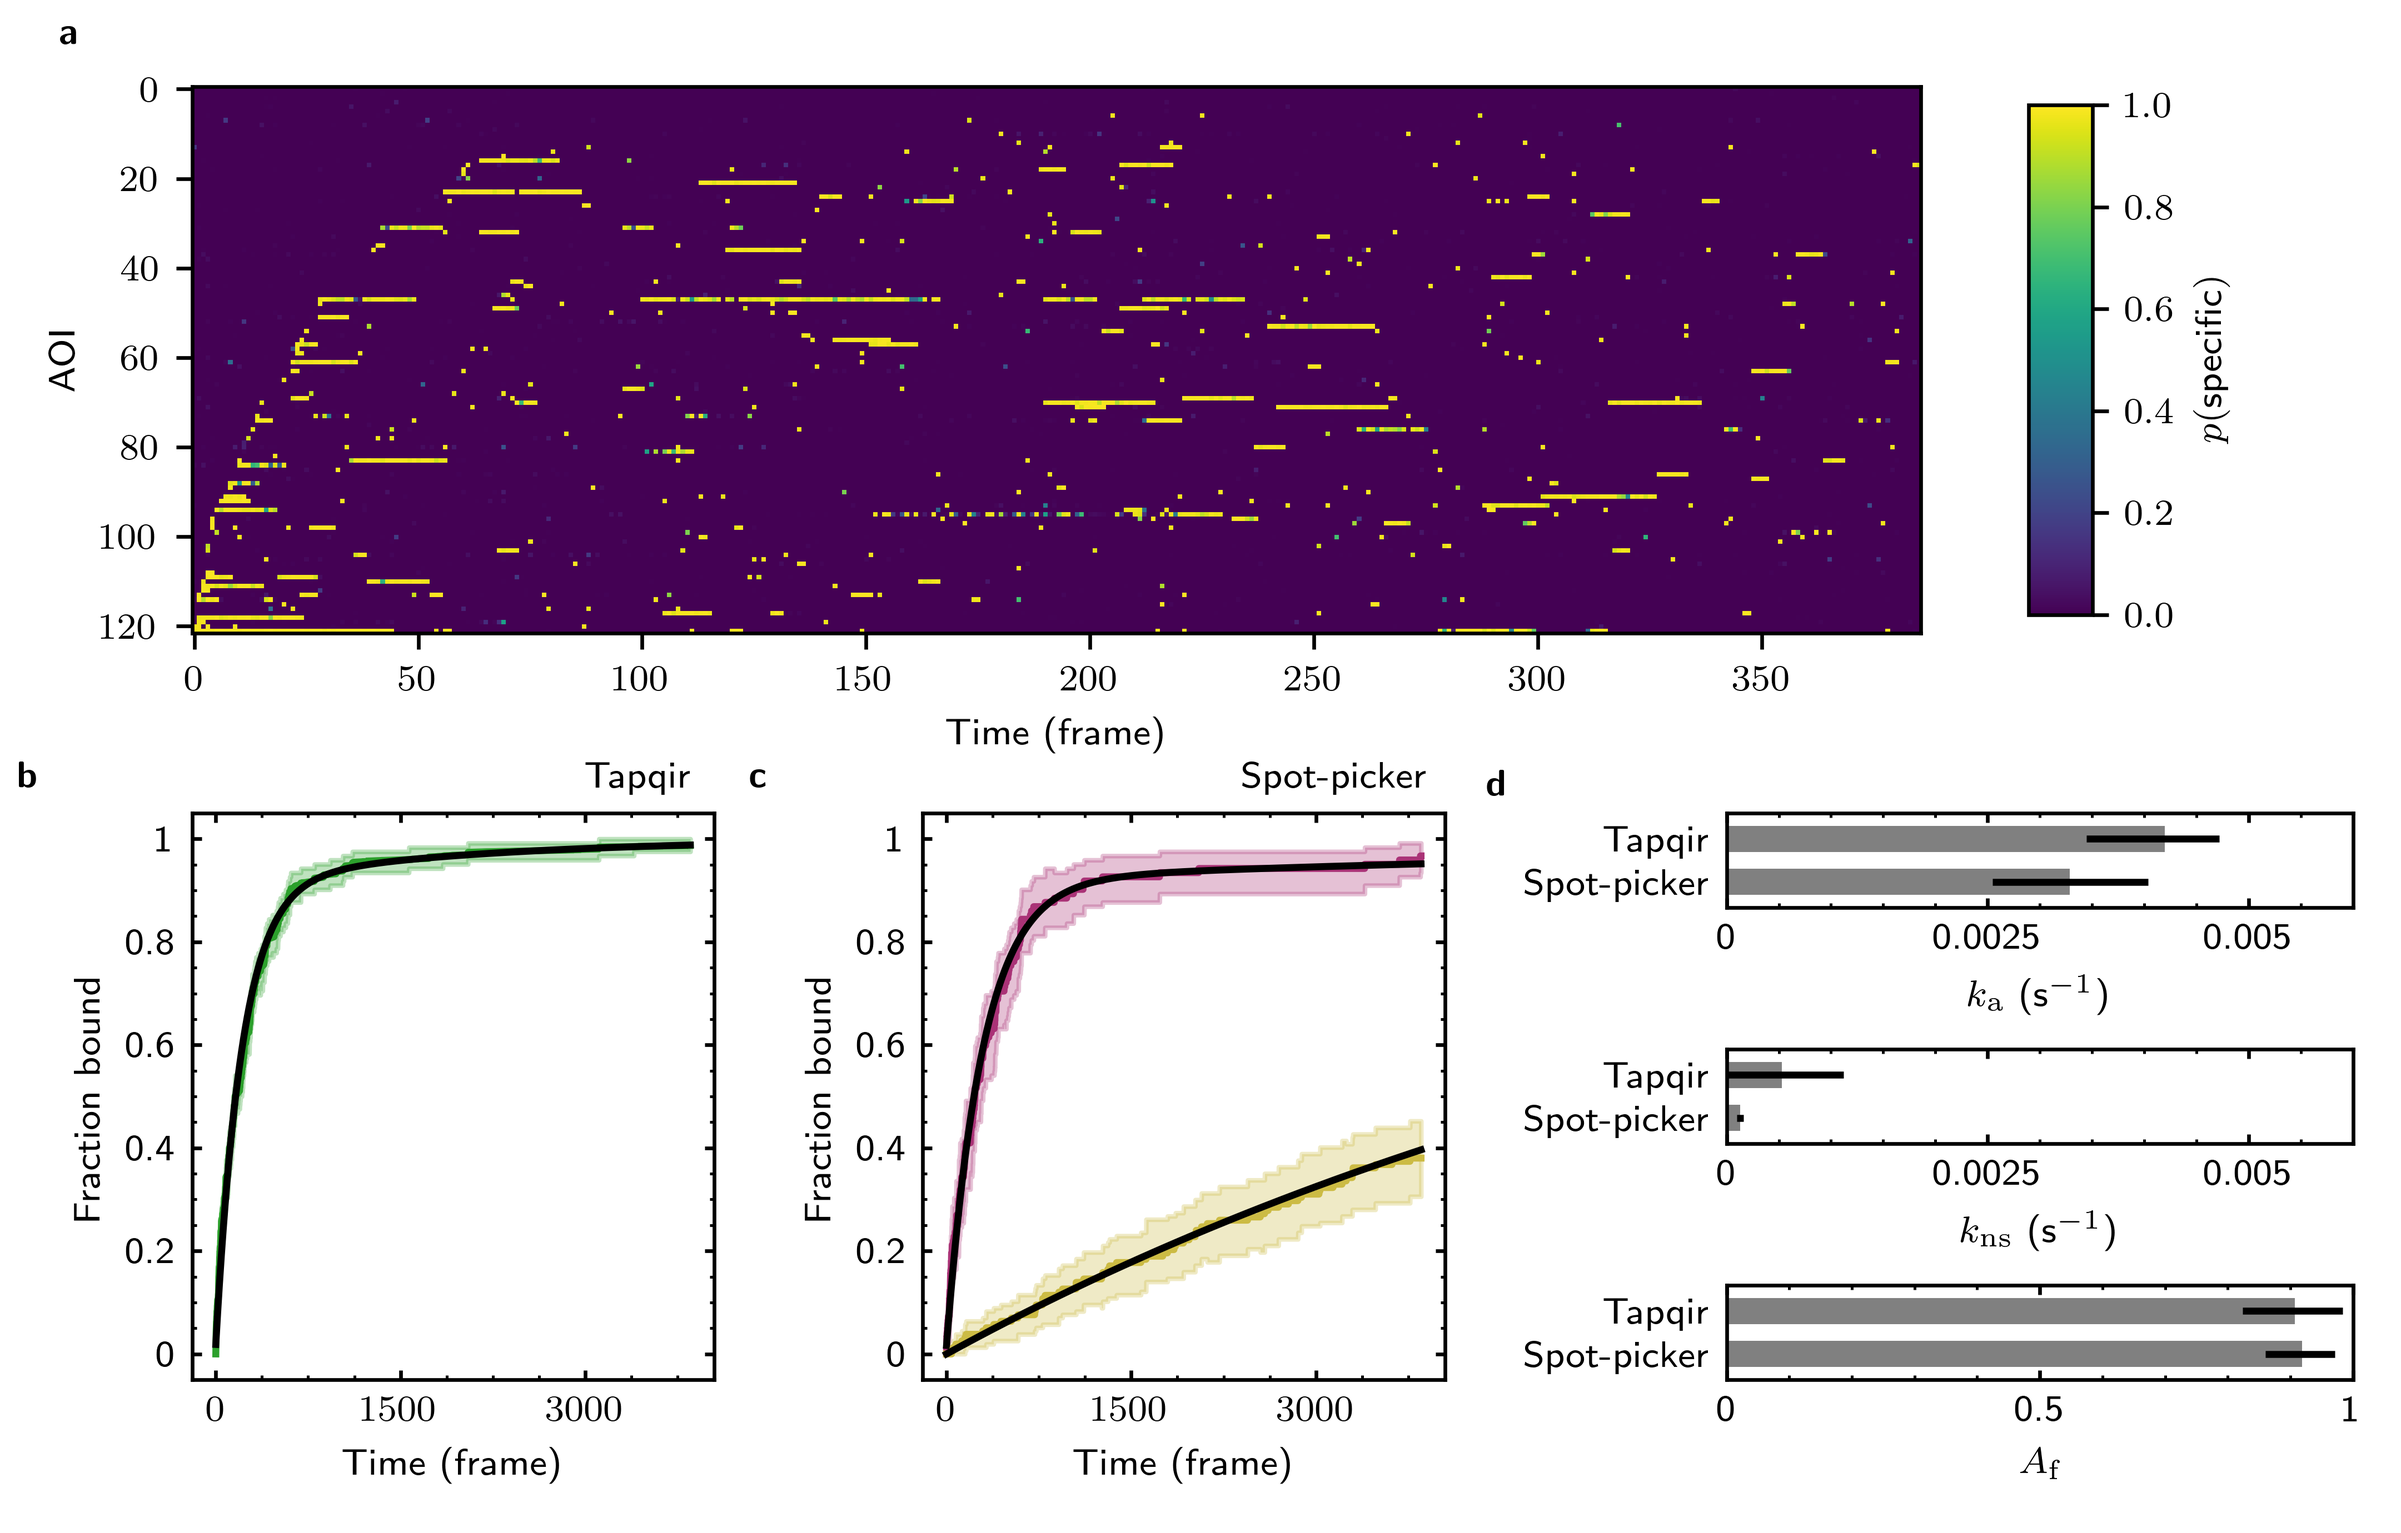
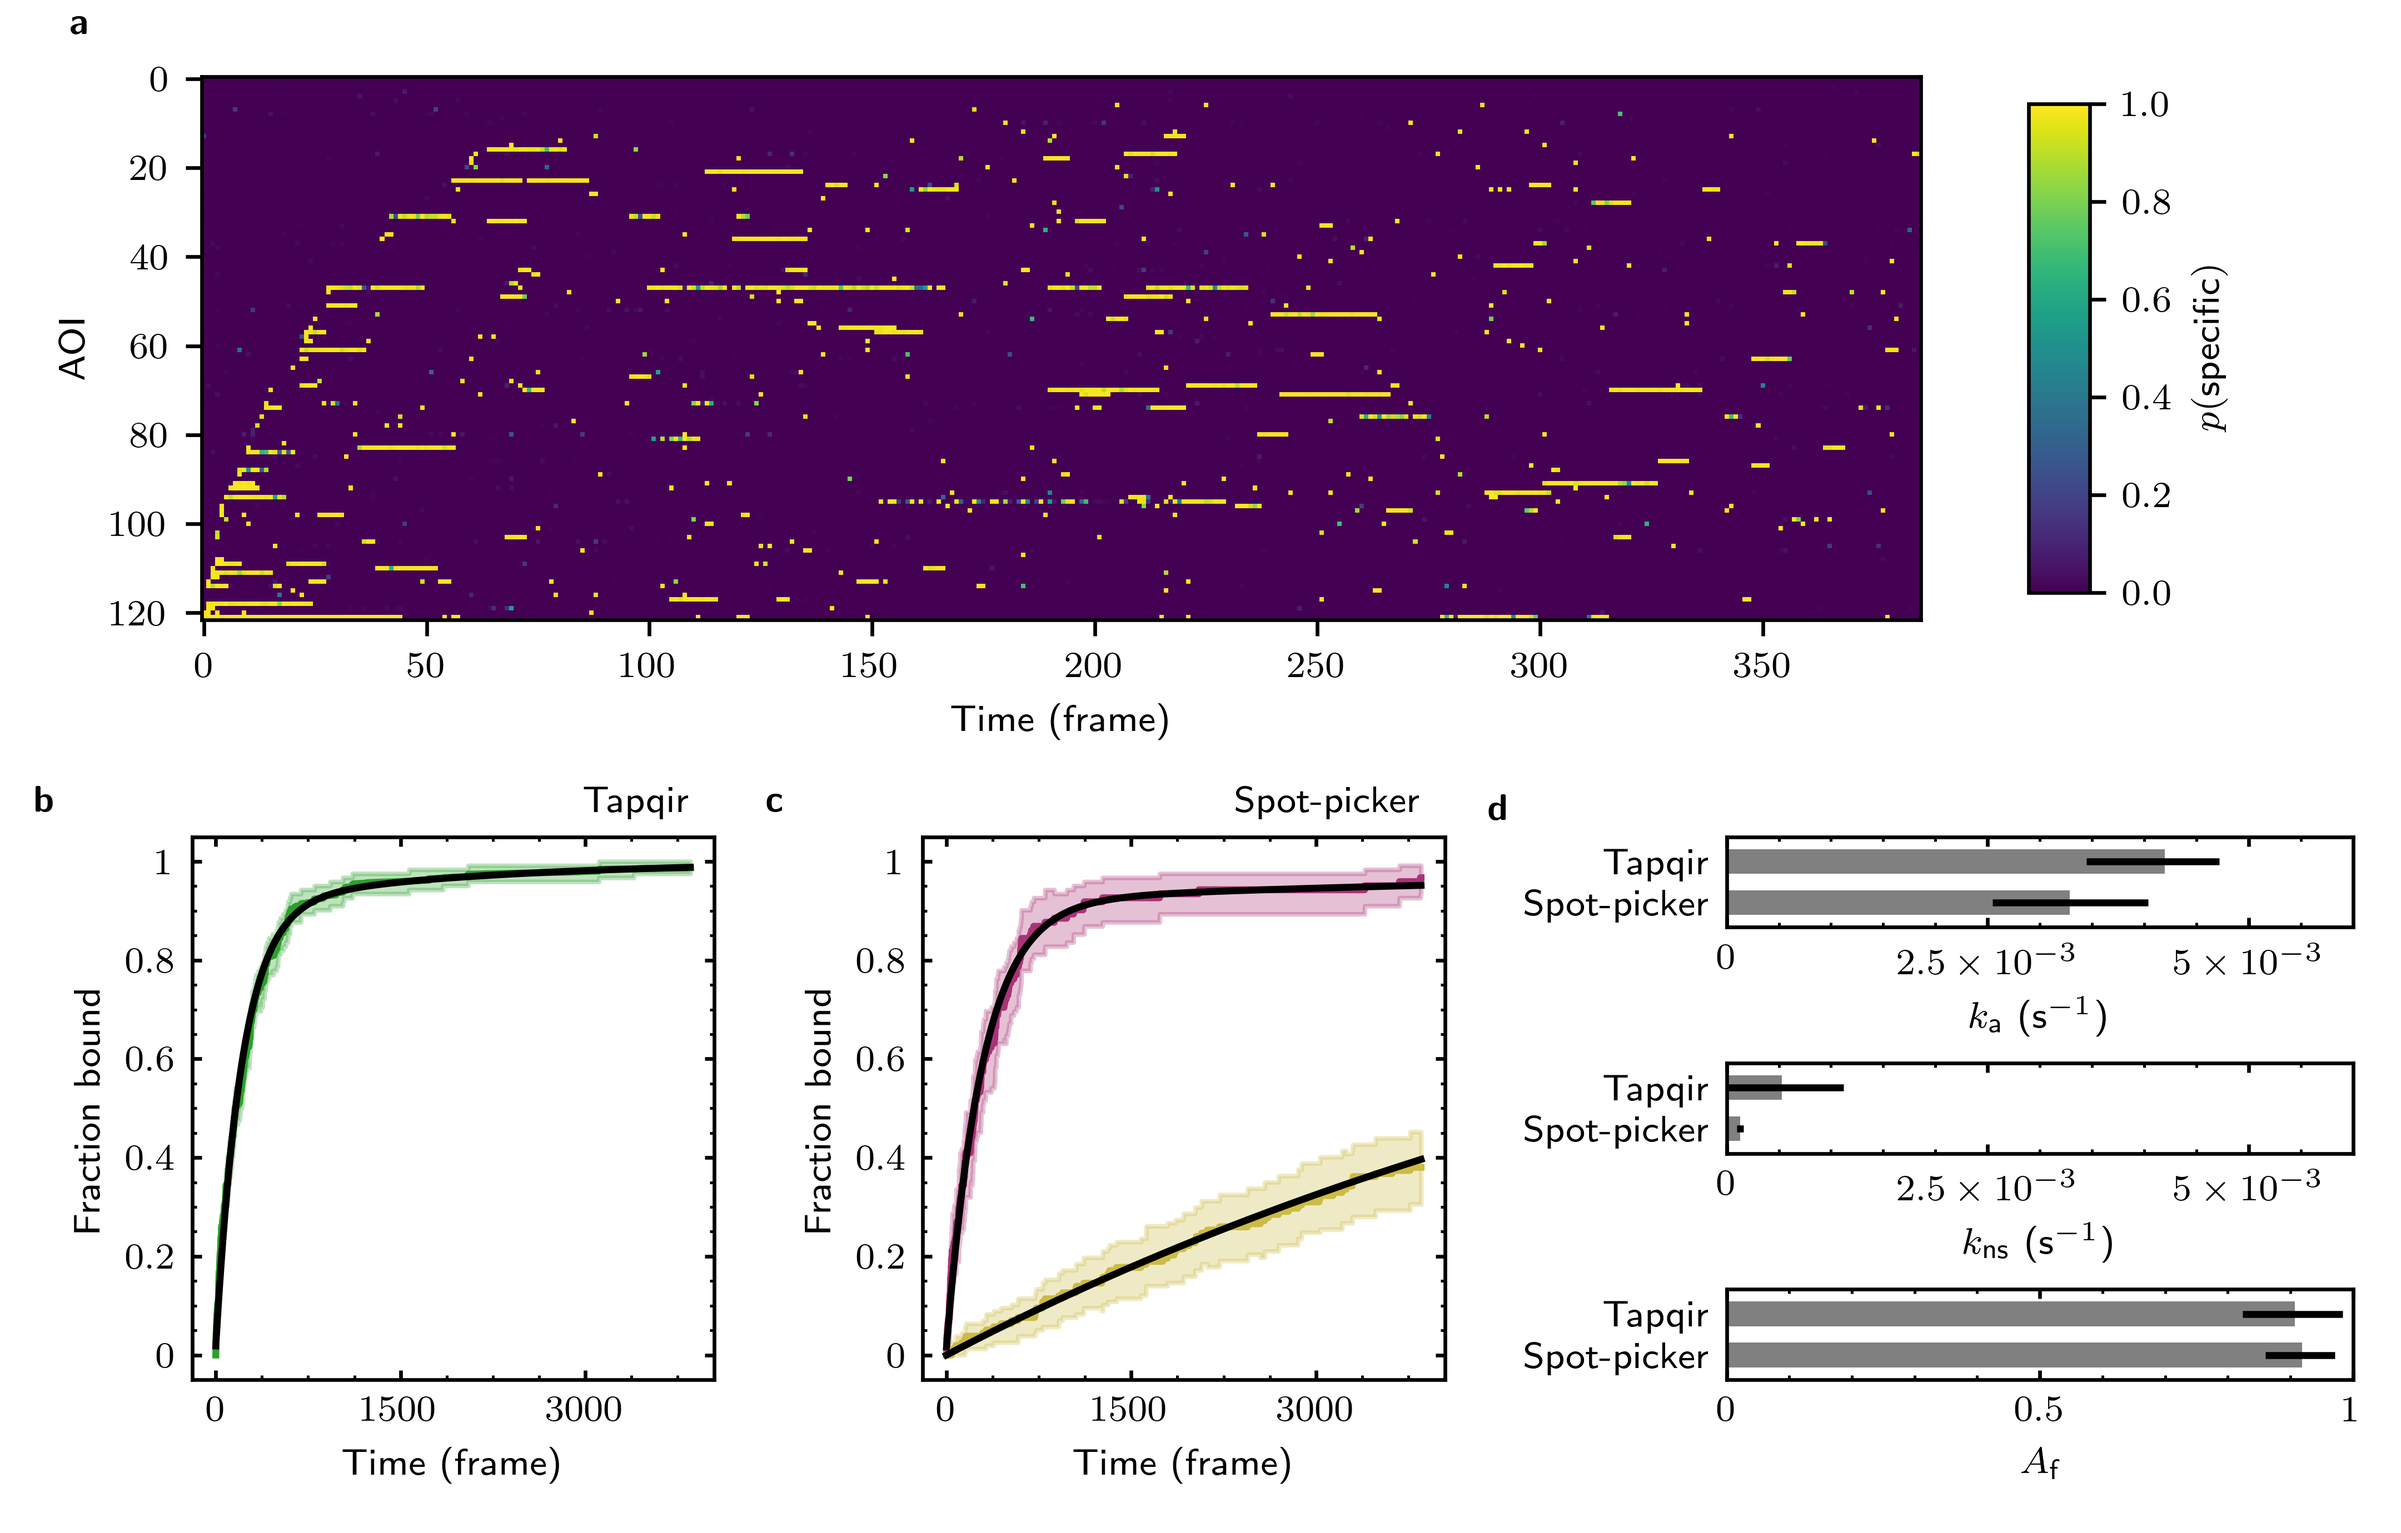
extended data fig 456

diff --git a/scripts/extended-data-figure6.py b/scripts/extended-data-figure6.py
@@ -14,7 +14,7 @@ mpl.rcParams["font.family"] = "sans-serif"
 mpl.rcParams.update({"font.size": 8})
 
 # load model & parameters
-path_data = Path("/shared/centaur/final/sigma54RNAPCy3-597P255")
+path_data = Path("/shared/centaur/paper/GreB")
 model = Cosmos(verbose=False)
 model.load(path_data, data_only=False)
 
@@ -34,7 +34,7 @@ gs = fig.add_gridspec(
 # panel a
 ax = fig.add_subplot(gs[0, :])
 ax.text(
-    -30,
+    -35,
     -10,
     r"\textbf{a}",
 )
@@ -71,7 +71,7 @@ ax.text(
     horizontalalignment="right",
 )
 
-results = pd.read_csv("scripts/fig7.csv", index_col=0)
+results = pd.read_csv("scripts/edfig6.csv", index_col=0)
 # prepare data
 Tmax = model.data.ontarget.F
 torch.manual_seed(0)
@@ -130,7 +130,7 @@ ax.tick_params(
     left=True,
     right=True,
 )
-ax.set_xticks([0, 1500, 3000])
+ax.set_xticks([0, 2000, 4000])
 ax.set_yticks([0, 0.2, 0.4, 0.6, 0.8, 1])
 ax.set_yticklabels([r"$0$", r"$0.2$", r"$0.4$", r"$0.6$", r"$0.8$", r"$1$"])
 ax.set_xlabel("Time (frame)")
@@ -246,7 +246,7 @@ ax.tick_params(
     left=True,
     right=True,
 )
-ax.set_xticks([0, 1500, 3000])
+ax.set_xticks([0, 2000, 4000])
 ax.set_yticks([0, 0.2, 0.4, 0.6, 0.8, 1])
 ax.set_yticklabels([r"$0$", r"$0.2$", r"$0.4$", r"$0.6$", r"$0.8$", r"$1$"])
 ax.set_xlabel("Time (frame)")
@@ -258,7 +258,7 @@ gsd = gs[1, 1].subgridspec(3, 1, hspace=1.5)
 # ka
 ax = fig.add_subplot(gsd[0])
 ax.text(
-    -0.38 * 0.008,
+    -0.38 * 0.002,
     2,
     r"\textbf{d}",
 )
@@ -292,10 +292,10 @@ ax.tick_params(
     left=False,
     right=False,
 )
-ax.set_xticks([0, 3e-3, 6e-3])
-ax.set_xticklabels([r"$0$", r"$3 \times 10^{-3}$", r"$6 \times 10^{-3}$"])
+ax.set_xticks([0, 8e-4, 1.6e-3])
+ax.set_xticklabels([r"$0$", r"$0.8 \times 10^{-3}$", r"$1.6 \times 10^{-3}$"])
 ax.set_xlabel(r"$k_\mathsf{a}$ (s$^{-1}$)")
-ax.set_xlim(0, 8e-3)
+ax.set_xlim(0, 2e-3)
 ax.set_ylim(-0.6, 1.6)
 
 # kns
@@ -332,10 +332,10 @@ ax.tick_params(
     left=False,
     right=False,
 )
-ax.set_xticks([0, 3e-3, 6e-3])
-ax.set_xticklabels([r"$0$", r"$3 \times 10^{-3}$", r"$6 \times 10^{-3}$"])
+ax.set_xticks([0, 8e-4, 1.6e-3])
+ax.set_xticklabels([r"$0$", r"$0.8 \times 10^{-3}$", r"$1.6 \times 10^{-3}$"])
 ax.set_xlabel(r"$k_\mathsf{ns}$ (s$^{-1}$)")
-ax.set_xlim(0, 8e-3)
+ax.set_xlim(0, 2e-3)
 ax.set_ylim(-0.6, 1.6)
 
 # Af
@@ -377,4 +377,4 @@ ax.set_xlabel(r"$A_\mathsf{f}$")
 ax.set_xlim(0, 1)
 ax.set_ylim(-0.6, 1.6)
 
-plt.savefig("figures/figure7.png", dpi=600)
+plt.savefig("extended-data/figure6.png", dpi=600)

diff --git a/scripts/extended-data-figure5.py b/scripts/extended-data-figure5.py
@@ -14,7 +14,7 @@ mpl.rcParams["font.family"] = "sans-serif"
 mpl.rcParams.update({"font.size": 8})
 
 # load model & parameters
-path_data = Path("/shared/centaur/final/sigma54RNAPCy3-597P255")
+path_data = Path("/shared/centaur/final/sigma54RNAPCy3-598P2993")
 model = Cosmos(verbose=False)
 model.load(path_data, data_only=False)
 
@@ -46,7 +46,7 @@ sdx = torch.argsort(ttfb, descending=True)
 
 norm = mpl.colors.Normalize(vmin=0, vmax=1)
 im = ax.imshow(
-    model.params["p(specific)"][sdx][:, ::13],
+    model.params["p(specific)"][sdx][:, ::10],
     norm=norm,
     aspect="equal",
     interpolation="none",
@@ -71,7 +71,7 @@ ax.text(
     horizontalalignment="right",
 )
 
-results = pd.read_csv("scripts/fig7.csv", index_col=0)
+results = pd.read_csv("scripts/edfig5.csv", index_col=0)
 # prepare data
 Tmax = model.data.ontarget.F
 torch.manual_seed(0)
@@ -258,7 +258,7 @@ gsd = gs[1, 1].subgridspec(3, 1, hspace=1.5)
 # ka
 ax = fig.add_subplot(gsd[0])
 ax.text(
-    -0.38 * 0.008,
+    -0.38 * 0.006,
     2,
     r"\textbf{d}",
 )
@@ -292,10 +292,10 @@ ax.tick_params(
     left=False,
     right=False,
 )
-ax.set_xticks([0, 3e-3, 6e-3])
-ax.set_xticklabels([r"$0$", r"$3 \times 10^{-3}$", r"$6 \times 10^{-3}$"])
+ax.set_xticks([0, 2.5e-3, 5e-3])
+ax.set_xticklabels([r"$0$", r"$2.5 \times 10^{-3}$", r"$5 \times 10^{-3}$"])
 ax.set_xlabel(r"$k_\mathsf{a}$ (s$^{-1}$)")
-ax.set_xlim(0, 8e-3)
+ax.set_xlim(0, 6e-3)
 ax.set_ylim(-0.6, 1.6)
 
 # kns
@@ -332,10 +332,10 @@ ax.tick_params(
     left=False,
     right=False,
 )
-ax.set_xticks([0, 3e-3, 6e-3])
-ax.set_xticklabels([r"$0$", r"$3 \times 10^{-3}$", r"$6 \times 10^{-3}$"])
+ax.set_xticks([0, 2.5e-3, 5e-3])
+ax.set_xticklabels([r"$0$", r"$2.5 \times 10^{-3}$", r"$5 \times 10^{-3}$"])
 ax.set_xlabel(r"$k_\mathsf{ns}$ (s$^{-1}$)")
-ax.set_xlim(0, 8e-3)
+ax.set_xlim(0, 6e-3)
 ax.set_ylim(-0.6, 1.6)
 
 # Af
@@ -377,4 +377,4 @@ ax.set_xlabel(r"$A_\mathsf{f}$")
 ax.set_xlim(0, 1)
 ax.set_ylim(-0.6, 1.6)
 
-plt.savefig("figures/figure7.png", dpi=600)
+plt.savefig("extended-data/figure5.png", dpi=600)

diff --git a/scripts/extended-data-figure4.py b/scripts/extended-data-figure4.py
@@ -34,7 +34,7 @@ gs = fig.add_gridspec(
 # panel a
 ax = fig.add_subplot(gs[0, :])
 ax.text(
-    -30,
+    -40,
     -10,
     r"\textbf{a}",
 )
@@ -60,7 +60,7 @@ gsb = gs[1, 0].subgridspec(1, 2, wspace=0.4)
 # panel b (Tapqir)
 ax = fig.add_subplot(gsb[0, 0])
 ax.text(
-    -300,
+    -0.38 * model.data.ontarget.F,
     1.1,
     r"\textbf{b}",
 )
@@ -140,7 +140,7 @@ ax.set_ylim(-0.05, 1.05)
 # panel c (Spotpicker)
 ax = fig.add_subplot(gsb[0, 1])
 ax.text(
-    -300,
+    -0.38 * model.data.ontarget.F,
     1.1,
     r"\textbf{c}",
 )
@@ -258,7 +258,7 @@ gsd = gs[1, 1].subgridspec(3, 1, hspace=1.5)
 # ka
 ax = fig.add_subplot(gsd[0])
 ax.text(
-    -0.0023,
+    -0.38 * 0.006,
     2,
     r"\textbf{d}",
 )
